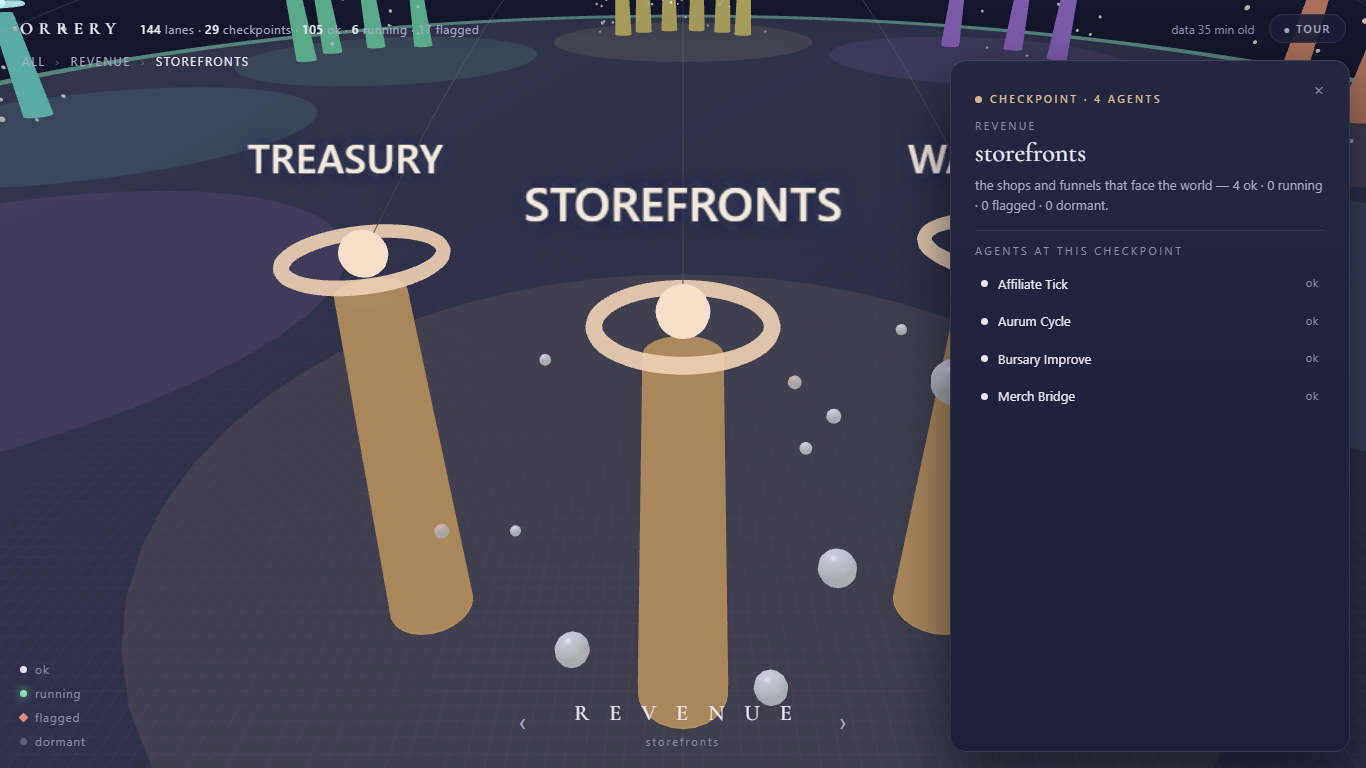
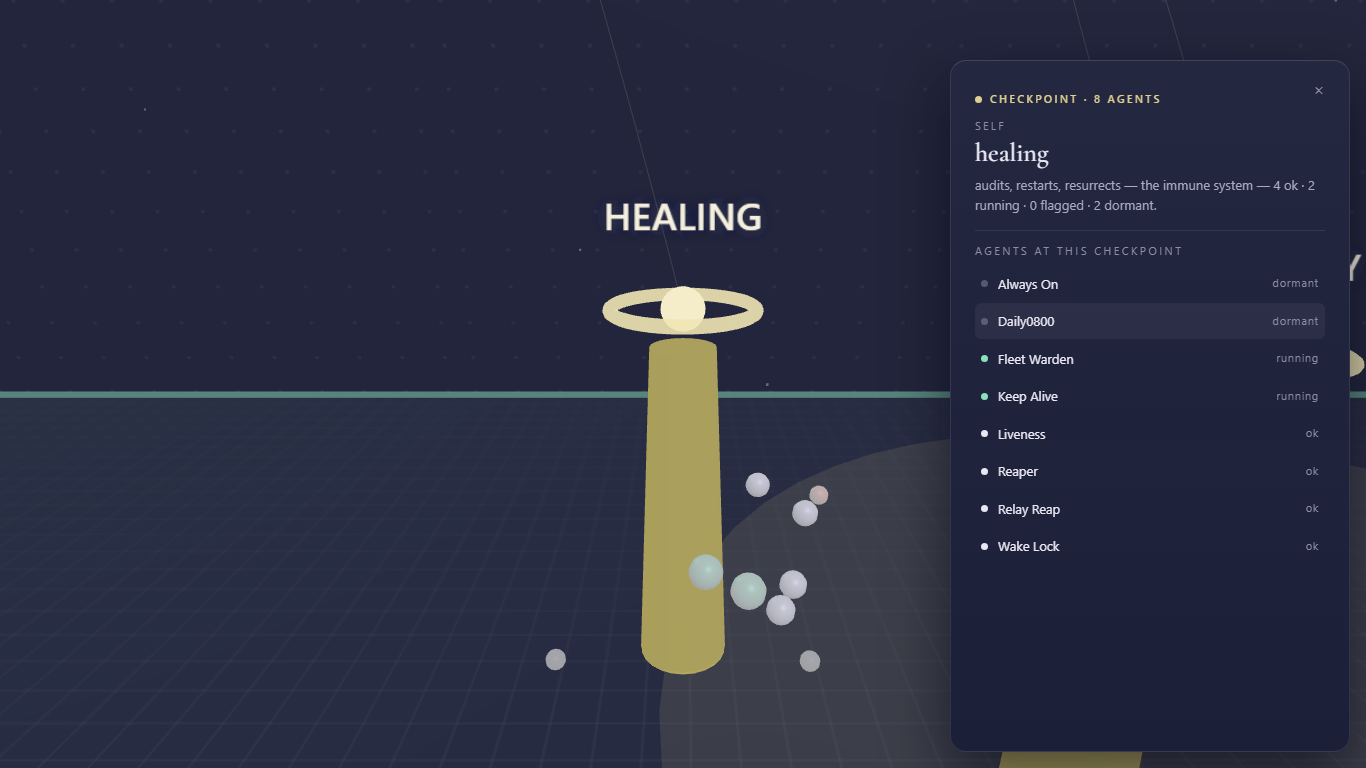
v5: the room — camera lives inside the box, wall nameplates, mouse parallax (the diorama effect)

diff --git a/index.html b/index.html
@@ -253,7 +253,6 @@
 
 <script type="module">
 import * as THREE from 'three';
-import { OrbitControls } from 'three/addons/controls/OrbitControls.js';
 
 /* ============================== data ============================== */
 const SAMPLE = {
@@ -292,63 +291,93 @@ const renderer = new THREE.WebGLRenderer({ canvas, antialias: true, alpha: false
 renderer.setPixelRatio(Math.min(devicePixelRatio, 2));
 const scene = new THREE.Scene();
 scene.background = new THREE.Color(0x14172b);
-scene.fog = new THREE.Fog(0x14172b, 900, 2200);
-const camera = new THREE.PerspectiveCamera(48, 1, 1, 4000);
-camera.position.set(0, 780, 1150);
+scene.fog = new THREE.Fog(0x14172b, 1300, 3200);
+const camera = new THREE.PerspectiveCamera(54, 1, 1, 4000);
+camera.position.set(0, 260, 1500);
 
-const controls = new OrbitControls(camera, canvas);
-controls.enableDamping = true; controls.dampingFactor = .06;
-controls.maxPolarAngle = Math.PI * .49;
-controls.minDistance = 60; controls.maxDistance = 1600;
-controls.target.set(0, 40, 0);
-
-scene.add(new THREE.AmbientLight(0x8a8fc0, .55));
-const key = new THREE.DirectionalLight(0xf0eeff, .9); key.position.set(300, 700, 200); scene.add(key);
-const rim = new THREE.DirectionalLight(0x8be2b9, .25); rim.position.set(-400, 300, -500); scene.add(rim);
-
-const camGoal = { pos: new THREE.Vector3(0, 780, 1150), tgt: new THREE.Vector3(0, 40, 0), active: false };
+/* the diorama rig — the camera lives INSIDE the room; mouse parallax sells the depth */
+const camBase = new THREE.Vector3(0, 260, 810);
+const tgtBase = new THREE.Vector3(0, 170, -350);
+const camGoal = { pos: camBase.clone(), tgt: tgtBase.clone(), active: false };
+const par = { x: 0, y: 0, sx: 0, sy: 0 };
+addEventListener('pointermove', e => {
+  par.x = (e.clientX / innerWidth - .5) * 2;
+  par.y = (e.clientY / innerHeight - .5) * 2;
+});
+addEventListener('wheel', e => {
+  const dir = tgtBase.clone().sub(camBase).normalize();
+  camGoal.pos.addScaledVector(dir, -e.deltaY * .45);
+  camGoal.pos.z = Math.min(camGoal.pos.z, 830);
+  if (camGoal.pos.distanceTo(camGoal.tgt) < 140) camGoal.pos.copy(camGoal.tgt).addScaledVector(dir, -140);
+  camGoal.active = true;
+}, { passive: true });
 function flyTo(px, py, pz, tx, ty, tz) { camGoal.pos.set(px, py, pz); camGoal.tgt.set(tx, ty, tz); camGoal.active = true; }
 
-/* starfield sky */
+scene.add(new THREE.AmbientLight(0x8a8fc0, .6));
+const key = new THREE.DirectionalLight(0xf0eeff, .8); key.position.set(200, 600, 500); scene.add(key);
+const rim = new THREE.DirectionalLight(0x8be2b9, .25); rim.position.set(-400, 300, -500); scene.add(rim);
+
+/* THE ROOM — the screen is the open face of a box; everything lives inside it */
+const ROOM = { hw: 620, depth: 850, h: 520 };   // walls at x=±hw, back at z=-depth, open front at z=+depth
 {
-  const g = new THREE.BufferGeometry();
-  const N = 1600, arr = new Float32Array(N * 3);
+  const gridTex = (dots) => {
+    const c = document.createElement('canvas'); c.width = c.height = 512;
+    const g = c.getContext('2d');
+    g.fillStyle = '#171a31'; g.fillRect(0, 0, 512, 512);
+    if (dots) {
+      g.fillStyle = 'rgba(150,158,225,.13)';
+      for (let y = 24; y < 512; y += 48) for (let x = 24; x < 512; x += 48) { g.beginPath(); g.arc(x, y, 2.2, 0, 7); g.fill(); }
+    } else {
+      g.strokeStyle = 'rgba(140,150,220,.15)'; g.lineWidth = 1;
+      for (let i = 0; i <= 16; i++) {
+        g.beginPath(); g.moveTo(i * 32, 0); g.lineTo(i * 32, 512); g.stroke();
+        g.beginPath(); g.moveTo(0, i * 32); g.lineTo(512, i * 32); g.stroke();
+      }
+    }
+    const t = new THREE.CanvasTexture(c);
+    t.wrapS = t.wrapT = THREE.RepeatWrapping;
+    return t;
+  };
+  const floorT = gridTex(false); floorT.repeat.set(8, 11);
+  const wallT = gridTex(true); wallT.repeat.set(8, 3);
+  const backT = gridTex(true); backT.repeat.set(6, 3);
+  const mat = (t) => new THREE.MeshStandardMaterial({ map: t, color: 0xffffff, roughness: .88, metalness: .18 });
+
+  const floor = new THREE.Mesh(new THREE.PlaneGeometry(ROOM.hw * 2, ROOM.depth * 2), mat(floorT));
+  floor.rotation.x = -Math.PI / 2; scene.add(floor);
+  const ceil = new THREE.Mesh(new THREE.PlaneGeometry(ROOM.hw * 2, ROOM.depth * 2), new THREE.MeshStandardMaterial({ color: 0x10132a, roughness: .95 }));
+  ceil.rotation.x = Math.PI / 2; ceil.position.y = ROOM.h; scene.add(ceil);
+  const left = new THREE.Mesh(new THREE.PlaneGeometry(ROOM.depth * 2, ROOM.h), mat(wallT));
+  left.rotation.y = Math.PI / 2; left.position.set(-ROOM.hw, ROOM.h / 2, 0); scene.add(left);
+  const right = new THREE.Mesh(new THREE.PlaneGeometry(ROOM.depth * 2, ROOM.h), mat(wallT));
+  right.rotation.y = -Math.PI / 2; right.position.set(ROOM.hw, ROOM.h / 2, 0); scene.add(right);
+  const back = new THREE.Mesh(new THREE.PlaneGeometry(ROOM.hw * 2, ROOM.h), mat(backT));
+  back.position.set(0, ROOM.h / 2, -ROOM.depth); scene.add(back);
+
+  /* neon edge strips where surfaces meet — the box reads as a box */
+  const strip = (w, x, y, z, rotY) => {
+    const m = new THREE.Mesh(new THREE.BoxGeometry(w, 2.6, 2.6), new THREE.MeshBasicMaterial({ color: 0x8be2b9, transparent: true, opacity: .5 }));
+    m.position.set(x, y, z); m.rotation.y = rotY || 0; scene.add(m);
+  };
+  strip(ROOM.depth * 2, -ROOM.hw, 1.4, 0, Math.PI / 2);
+  strip(ROOM.depth * 2, ROOM.hw, 1.4, 0, Math.PI / 2);
+  strip(ROOM.hw * 2, 0, 1.4, -ROOM.depth);
+  strip(ROOM.hw * 2, 0, ROOM.h - 1.4, -ROOM.depth);
+  const vstrip = (x) => {
+    const m = new THREE.Mesh(new THREE.BoxGeometry(2.6, ROOM.h, 2.6), new THREE.MeshBasicMaterial({ color: 0x8be2b9, transparent: true, opacity: .38 }));
+    m.position.set(x, ROOM.h / 2, -ROOM.depth); scene.add(m);
+  };
+  vstrip(-ROOM.hw); vstrip(ROOM.hw);
+
+  /* dust motes drifting in the volume — depth cue */
+  const N = 320, g = new THREE.BufferGeometry(), arr = new Float32Array(N * 3);
   for (let i = 0; i < N; i++) {
-    const v = new THREE.Vector3().randomDirection().multiplyScalar(1800 + Math.random() * 800);
-    arr[i * 3] = v.x; arr[i * 3 + 1] = Math.abs(v.y) * .7 + 60; arr[i * 3 + 2] = v.z;
+    arr[i * 3] = (Math.random() * 2 - 1) * ROOM.hw * .95;
+    arr[i * 3 + 1] = Math.random() * ROOM.h;
+    arr[i * 3 + 2] = -Math.random() * ROOM.depth;
   }
   g.setAttribute('position', new THREE.BufferAttribute(arr, 3));
-  scene.add(new THREE.Points(g, new THREE.PointsMaterial({ color: 0xdfe2f8, size: 2.2, sizeAttenuation: true, transparent: true, opacity: .8 })));
-}
-
-/* THE BASE — a clear ground the whole ecosystem stands on */
-const BASE_R = 640;
-{
-  const grid = document.createElement('canvas'); grid.width = grid.height = 1024;
-  const g2 = grid.getContext('2d');
-  g2.fillStyle = '#171a31'; g2.fillRect(0, 0, 1024, 1024);
-  g2.strokeStyle = 'rgba(140,150,220,.16)'; g2.lineWidth = 1;
-  for (let i = 0; i <= 32; i++) {
-    g2.beginPath(); g2.moveTo(i * 32, 0); g2.lineTo(i * 32, 1024); g2.stroke();
-    g2.beginPath(); g2.moveTo(0, i * 32); g2.lineTo(1024, i * 32); g2.stroke();
-  }
-  const tex = new THREE.CanvasTexture(grid);
-  tex.wrapS = tex.wrapT = THREE.RepeatWrapping; tex.repeat.set(10, 10);
-  const disc = new THREE.Mesh(
-    new THREE.CircleGeometry(BASE_R, 96),
-    new THREE.MeshStandardMaterial({ map: tex, color: 0xffffff, roughness: .85, metalness: .25 })
-  );
-  disc.rotation.x = -Math.PI / 2; scene.add(disc);
-  const edge = new THREE.Mesh(
-    new THREE.TorusGeometry(BASE_R, 2.4, 8, 128),
-    new THREE.MeshBasicMaterial({ color: 0x8be2b9, transparent: true, opacity: .55 })
-  );
-  edge.rotation.x = Math.PI / 2; edge.position.y = 1; scene.add(edge);
-  const under = new THREE.Mesh(
-    new THREE.CylinderGeometry(BASE_R, BASE_R * .92, 26, 96),
-    new THREE.MeshStandardMaterial({ color: 0x10132a, roughness: .9 })
-  );
-  under.position.y = -14; scene.add(under);
+  scene.add(new THREE.Points(g, new THREE.PointsMaterial({ color: 0xdfe2f8, size: 1.6, transparent: true, opacity: .35 })));
 }
 
 /* label sprites */
@@ -375,7 +404,20 @@ function makeLabel(text, { size = 64, serif = false, hue = null, sub = '', scale
   const m = new THREE.SpriteMaterial({ map: tex, transparent: true, depthWrite: false });
   const s = new THREE.Sprite(m);
   s.scale.set(c.width * scale, c.height * scale, 1);
+  s.userData.canvas = c;
   return s;
+}
+/* a label painted ON a wall (not billboarded) — the poster look from the reference */
+function makePlate(text, opts) {
+  const spr = makeLabel(text, opts);
+  const c = spr.userData.canvas;
+  const tex = spr.material.map;
+  const scale = opts.scale ?? .42;
+  const mesh = new THREE.Mesh(
+    new THREE.PlaneGeometry(c.width * scale, c.height * scale),
+    new THREE.MeshBasicMaterial({ map: tex, transparent: true, depthWrite: false })
+  );
+  return mesh;
 }
 
 /* ============================== build world from data ============================== */
@@ -406,36 +448,50 @@ function buildWorld() {
     g.setAttribute('color', new THREE.BufferAttribute(col, 3));
     brain.add(new THREE.Points(g, new THREE.PointsMaterial({ vertexColors: true, size: 2.6, transparent: true, opacity: .95 })));
     const glow = new THREE.PointLight(0xbfa7ff, 1.1, 500); glow.position.y = 0; brain.add(glow);
-    brain.position.set(0, 120, 0);
+    brain.position.set(0, 300, -640);
     const lbl = makeLabel('the brain', { size: 44, serif: true }); lbl.position.set(0, 74, 0); brain.add(lbl);
   }
 
+  /* zones live along the walls — 3 left, 2 back, 3 right, like rooms in the reference */
   const D = deptList;
-  const ringR = 430;
+  const SLOTS = [
+    { x: -450, z: -470, nx: 1, nz: 0 }, { x: -450, z: -40, nx: 1, nz: 0 }, { x: -450, z: 390, nx: 1, nz: 0 },
+    { x: -255, z: -650, nx: 0, nz: 1 }, { x: 255, z: -650, nx: 0, nz: 1 },
+    { x: 450, z: -470, nx: -1, nz: 0 }, { x: 450, z: -40, nx: -1, nz: 0 }, { x: 450, z: 390, nx: -1, nz: 0 },
+  ];
   D.forEach((d, i) => {
-    const a = -Math.PI / 2 + i * (2 * Math.PI / D.length);
-    d.angle = a;
-    d.cx = Math.cos(a) * ringR; d.cz = Math.sin(a) * ringR;
+    const s = SLOTS[i % SLOTS.length];
+    d.cx = s.x; d.cz = s.z; d.nx = s.nx; d.nz = s.nz;
     const zone = new THREE.Group(); zone.position.set(d.cx, 0, d.cz); world.add(zone); d.groupObj = zone;
 
-    /* district glow disc on the base */
+    /* district glow on the floor */
     const disc = new THREE.Mesh(
-      new THREE.CircleGeometry(150, 48),
-      new THREE.MeshBasicMaterial({ color: hsl(d.hue, .55, .5), transparent: true, opacity: .10, depthWrite: false })
+      new THREE.CircleGeometry(155, 48),
+      new THREE.MeshBasicMaterial({ color: hsl(d.hue, .55, .5), transparent: true, opacity: .11, depthWrite: false })
     );
     disc.rotation.x = -Math.PI / 2; disc.position.y = .6; disc.userData = { kind: 'zone', dept: d.id };
     zone.add(disc); zoneDiscs.push(disc);
 
-    const zl = makeLabel(d.label, { size: 78, serif: true, sub: d.tagline || '' });
-    zl.position.set(0, 168, 0); zone.add(zl);
+    /* zone nameplate painted on the wall behind the district */
+    const zl = makePlate(d.label, { size: 78, serif: true, sub: d.tagline || '', hue: d.hue, scale: .5 });
+    /* pushed flush to the wall plane, rotated to face into the room */
+    if (s.nx === 1) { zl.position.set(-ROOM.hw - d.cx + 3, 320, 0); zl.rotation.y = Math.PI / 2; }
+    else if (s.nx === -1) { zl.position.set(ROOM.hw - d.cx - 3, 320, 0); zl.rotation.y = -Math.PI / 2; }
+    else { zl.position.set(0, 320, -ROOM.depth - d.cz + 3); }
+    zone.add(zl);
+    d.plate = zl; zl.userData = { kind: 'zone', dept: d.id };
+    zoneDiscs.push(zl);
 
-    /* checkpoints — big monuments standing on the base */
+    /* checkpoints — monuments standing on the floor along the wall */
     const gs = groupsByDept[d.id] || [];
     d.hubs = {};
     gs.forEach((g, gi) => {
-      const ga = a + ((gi - (gs.length - 1) / 2) * (Math.PI * 2 / Math.max(6, gs.length * 2.6)));
-      const hr = 86;
-      const hx = Math.cos(ga) * hr, hz = Math.sin(ga) * hr;
+      const tx = s.nx === 0 ? 1 : 0, tz = s.nx === 0 ? 0 : 1;   // wall tangent
+      const span = Math.min(300, gs.length * 95);
+      const along = gs.length > 1 ? (gi / (gs.length - 1) - .5) * span : 0;
+      const stagger = (gi % 2) * 58 - 22;
+      const hx = tx * along + s.nx * stagger;
+      const hz = tz * along + s.nz * stagger;
       const H = 64 + (g.id.length % 3) * 10;
       const pillar = new THREE.Mesh(
         new THREE.CylinderGeometry(7, 10, H, 24),
@@ -470,8 +526,8 @@ function buildWorld() {
 
       /* beam: checkpoint cap → brain */
       const from = new THREE.Vector3(d.cx + hx, H + 8, d.cz + hz);
-      const to = new THREE.Vector3(0, 120, 0);
-      const mid = from.clone().lerp(to, .5); mid.y += 90;
+      const to = new THREE.Vector3(0, 300, -640);
+      const mid = from.clone().lerp(to, .5); mid.y += 110;
       const curve = new THREE.QuadraticBezierCurve3(from, mid, to);
       const pts = curve.getPoints(40);
       const bg = new THREE.BufferGeometry().setFromPoints(pts);
@@ -552,12 +608,14 @@ function animateAgents(t) {
 function frame(now) {
   const t = now || performance.now();
   if (tour) tourStep(t);
-  if (camGoal.active) {
-    camera.position.lerp(camGoal.pos, .06);
-    controls.target.lerp(camGoal.tgt, .08);
-    if (camera.position.distanceTo(camGoal.pos) < 2) camGoal.active = false;
-  }
-  controls.update();
+  camBase.lerp(camGoal.pos, .06);
+  tgtBase.lerp(camGoal.tgt, .08);
+  /* mouse parallax around the base position — this is what makes the screen read as depth */
+  const pk = reel ? 0 : (level === 0 ? 1 : .45);
+  par.sx += (par.x - par.sx) * .05;
+  par.sy += (par.y - par.sy) * .05;
+  camera.position.set(camBase.x + par.sx * 85 * pk, camBase.y - par.sy * 48 * pk, camBase.z);
+  camera.lookAt(tgtBase);
   if (!reduced) brain.rotation.y = t * .00012;
   for (const d of deptList) if (d.hubs) for (const h of Object.values(d.hubs)) {
     if (!reduced && h.ring) { h.ring.rotation.z = t * .0004 * h.ring.userData.spin; h.ring.position.y = h.ring.userData.baseY + Math.sin(t * .0009 + h.ring.userData.spin * 9) * 2.5; }
@@ -588,18 +646,16 @@ function setLevel(lv, di, gid) {
   level = lv; deptIdx = di === undefined ? deptIdx : di; groupId = gid || null;
   const focus = level >= 1 ? deptList[deptIdx] : null;
   if (level === 0) {
-    flyTo(0, 780, 1150, 0, 40, 0);
+    flyTo(0, 260, 810, 0, 170, -350);
     setDeptnav('A L L', 'the whole ecosystem');
   } else if (level === 1) {
     const d = focus;
-    const out = 1.95;
-    flyTo(d.cx * out, 340, d.cz * out, d.cx, 50, d.cz);
+    flyTo(d.cx + d.nx * 420, 240, d.cz + d.nz * 420, d.cx, 90, d.cz);
     setDeptnav(d.label.split('').join(' '), d.tagline || '');
     $('live').textContent = d.label + ' zone — ' + d.nodes.length + ' agents, ' + Object.keys(d.hubs).length + ' checkpoints';
   } else if (level === 2) {
     const d = focus, hub = d.hubs[groupId];
-    const dir = new THREE.Vector2(hub.x, hub.z).normalize();
-    flyTo(hub.x + dir.x * 130, hub.y + 60, hub.z + dir.y * 130, hub.x, hub.y - 14, hub.z);
+    flyTo(hub.x + d.nx * 180, hub.y + 46, hub.z + d.nz * 180, hub.x, hub.y - 14, hub.z);
     setDeptnav(d.label.split('').join(' '), hub.label);
     openGroup(d, hub);
   }
@@ -691,10 +747,7 @@ function open(n) {
   $('card').classList.add('open');
   $('live').textContent = `${n.label}, ${d.label}, ${b.text}`;
   const hub = d.hubs[n.group] || Object.values(d.hubs)[0];
-  if (hub) {
-    const dir = new THREE.Vector2(hub.x, hub.z).normalize();
-    flyTo(hub.x + dir.x * 110, hub.y + 40, hub.z + dir.y * 110, hub.x, hub.y - 20, hub.z);
-  }
+  if (hub) flyTo(hub.x + d.nx * 130, hub.y + 26, hub.z + d.nz * 130, hub.x, hub.y - 18, hub.z);
   kick();
 }
 
@@ -753,7 +806,8 @@ search.addEventListener('input', () => {
 
 /* ============================== reel mode ============================== */
 function tourKeys() {
-  const K = [{ t: 0, pos: [0, 880, 1320], tgt: [0, 40, 0] }];
+  /* fly IN through the open face, visit two rooms, pull back out */
+  const K = [{ t: 0, pos: [0, 300, 1560], tgt: [0, 200, -350] }];
   let t = 4200;
   const stops = [];
   const ig = deptList.find(d => Object.keys(d.hubs || {}).some(g => /instagram/.test(g)));
@@ -762,19 +816,18 @@ function tourKeys() {
   if (selfD) stops.push([selfD, 'healing']);
   if (!stops.length && deptList[0]) stops.push([deptList[0], Object.keys(deptList[0].hubs)[0]]);
   for (const [d, gid] of stops) {
-    K.push({ t, pos: [d.cx * 1.95, 340, d.cz * 1.95], tgt: [d.cx, 50, d.cz], act: () => { close(); setLevelSilent(1, deptList.indexOf(d)); } });
+    K.push({ t, pos: [d.cx + d.nx * 420, 240, d.cz + d.nz * 420], tgt: [d.cx, 90, d.cz], act: () => { close(); setLevelSilent(1, deptList.indexOf(d)); } });
     t += 5200;
     const hub = d.hubs[gid];
     if (hub) {
-      const dir = new THREE.Vector2(hub.x, hub.z).normalize();
-      K.push({ t, pos: [hub.x + dir.x * 130, hub.y + 60, hub.z + dir.y * 130], tgt: [hub.x, hub.y - 14, hub.z], act: () => setLevelSilent(2, deptList.indexOf(d), gid) });
+      K.push({ t, pos: [hub.x + d.nx * 180, hub.y + 46, hub.z + d.nz * 180], tgt: [hub.x, hub.y - 14, hub.z], act: () => setLevelSilent(2, deptList.indexOf(d), gid) });
       t += 4800;
       const star = d.nodes.find(n => n.group === gid && n.replaces) || d.nodes.find(n => n.group === gid);
-      if (star) { K.push({ t, pos: [hub.x + dir.x * 90, hub.y + 30, hub.z + dir.y * 90], tgt: [hub.x, hub.y - 20, hub.z], act: () => open(star) }); t += 5600; }
+      if (star) { K.push({ t, pos: [hub.x + d.nx * 125, hub.y + 24, hub.z + d.nz * 125], tgt: [hub.x, hub.y - 18, hub.z], act: () => open(star) }); t += 5600; }
     }
   }
-  K.push({ t, pos: [0, 780, 1150], tgt: [0, 40, 0], act: () => { close(); setLevelSilent(0); } });
-  K.push({ t: t + 5000, pos: [0, 940, 1420], tgt: [0, 40, 0] });
+  K.push({ t, pos: [0, 260, 810], tgt: [0, 170, -350], act: () => { close(); setLevelSilent(0); } });
+  K.push({ t: t + 5000, pos: [0, 290, 1350], tgt: [0, 190, -350] });
   return K;
 }
 function setLevelSilent(lv, di, gid) { setLevel(lv, di, gid); camGoal.active = false; }
@@ -798,17 +851,17 @@ function tourStep(now) {
   const a = K[i], b = K[Math.min(i + 1, K.length - 1)];
   if (a.act && !a.done) { a.done = true; a.act(); }
   const u = smooth(Math.min(1, (el - a.t) / Math.max(1, b.t - a.t)));
-  camera.position.set(
+  camBase.set(
     a.pos[0] + (b.pos[0] - a.pos[0]) * u,
     a.pos[1] + (b.pos[1] - a.pos[1]) * u,
     a.pos[2] + (b.pos[2] - a.pos[2]) * u
   );
-  controls.target.set(
+  tgtBase.set(
     a.tgt[0] + (b.tgt[0] - a.tgt[0]) * u,
     a.tgt[1] + (b.tgt[1] - a.tgt[1]) * u,
     a.tgt[2] + (b.tgt[2] - a.tgt[2]) * u
   );
-  camGoal.active = false;
+  camGoal.pos.copy(camBase); camGoal.tgt.copy(tgtBase);
 }
 $('rec').addEventListener('click', startReel);
 
@@ -818,7 +871,7 @@ function enter() {
   if (entered) return; entered = true;
   intro.classList.add('gone');
   intro.setAttribute('aria-hidden', 'true');
-  if (!reduced) { camera.position.set(0, 1100, 1900); flyTo(0, 780, 1150, 0, 40, 0); }
+  if (!reduced) { camBase.set(0, 280, 1650); flyTo(0, 260, 810, 0, 170, -350); }
   setTimeout(() => intro.remove(), 1000);
   canvas.focus();
 }
